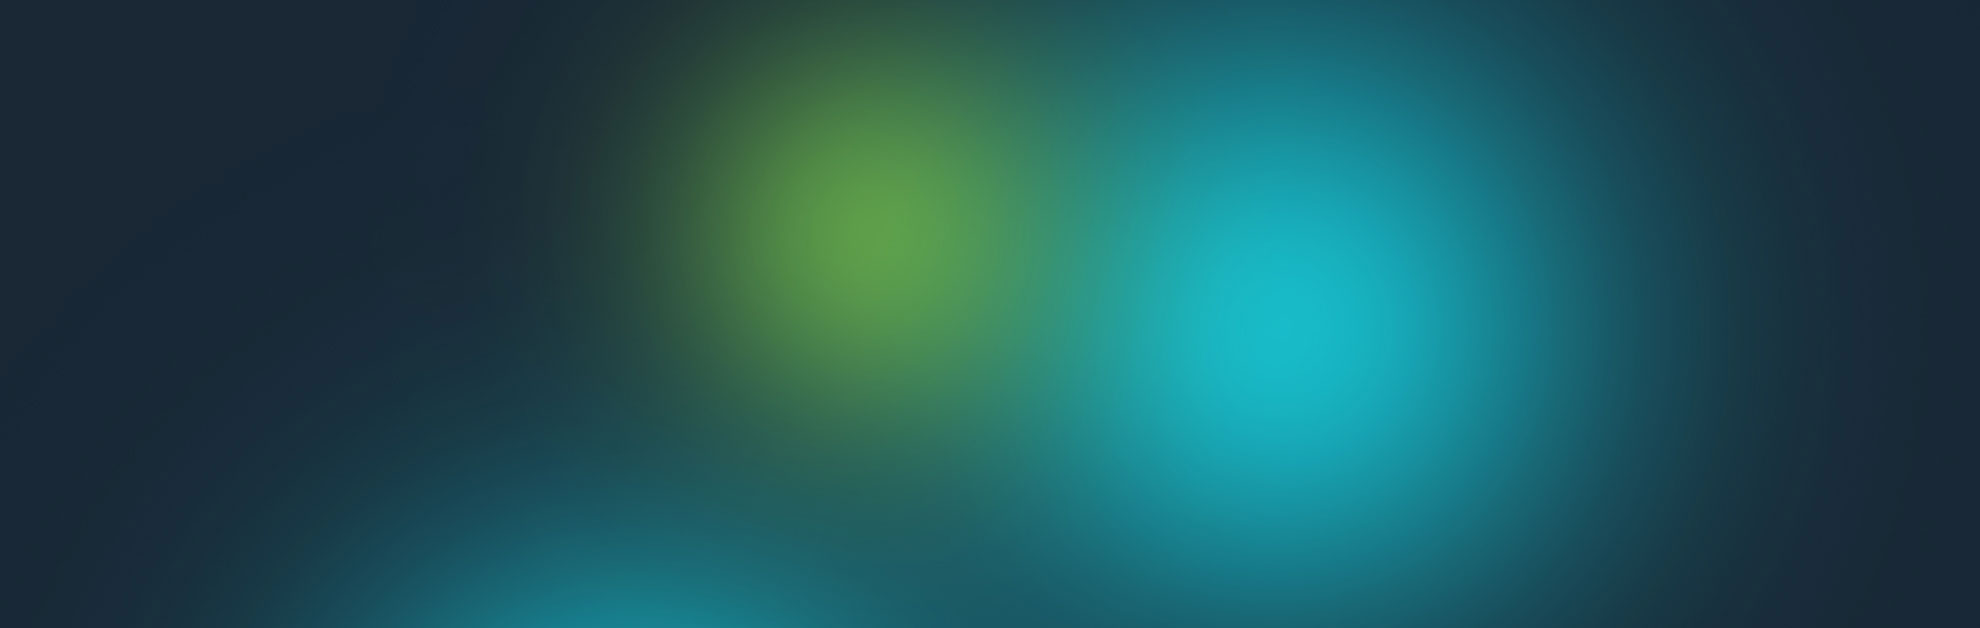
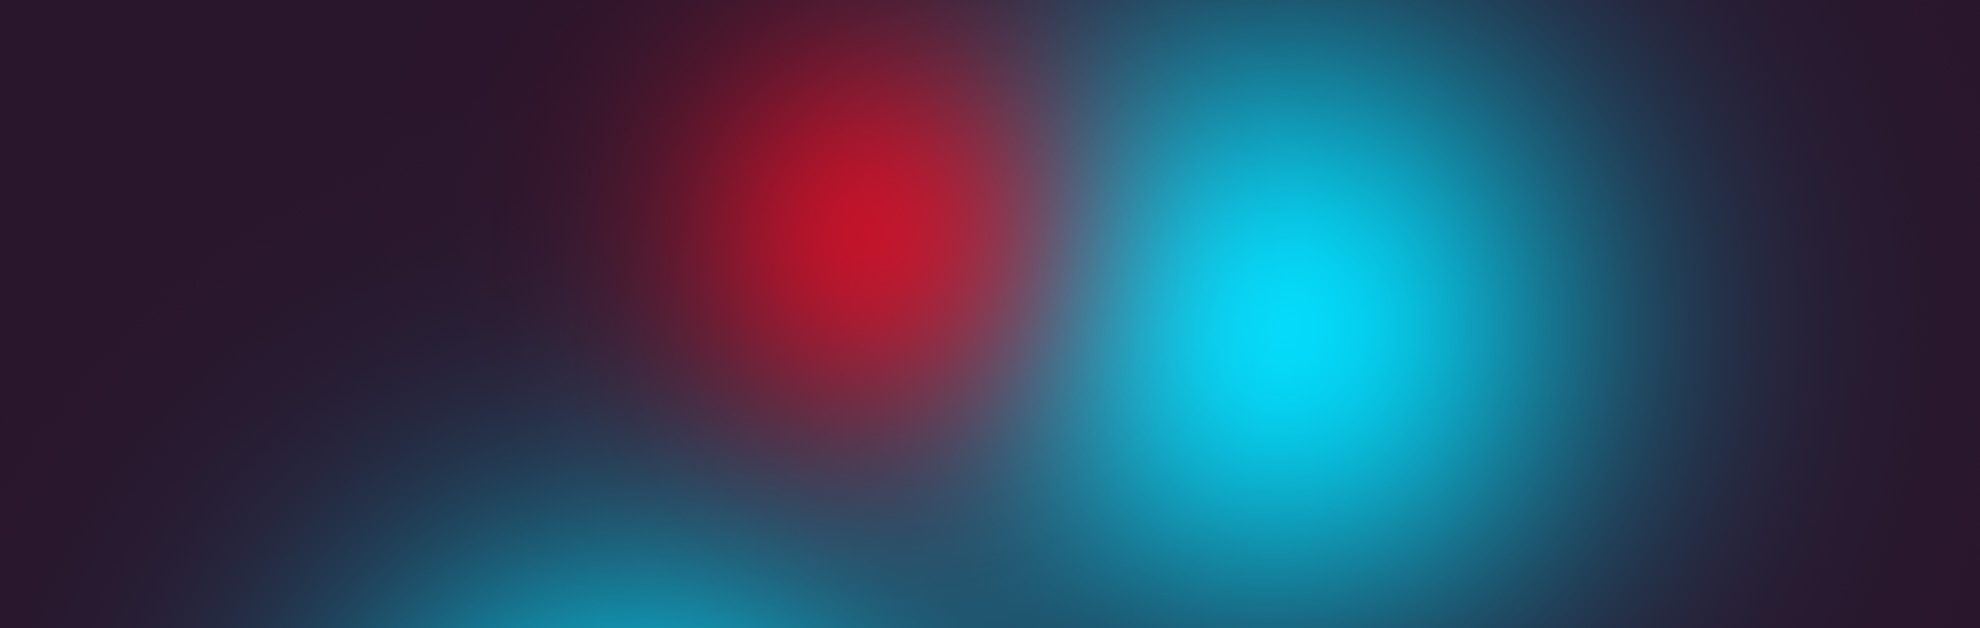
WIP: Skin change

diff --git a/app/assets/javascripts/user_functions.js b/app/assets/javascripts/user_functions.js
@@ -26,6 +26,14 @@ $(document).ready(function() {
     $(this).parent().parent().remove();
   });
 
+  $(".skin-change").click(function() {
+    console.log('Skin change clicked.');
+    var number = $(this).data("skin"),
+        bg = '/assets/bg/main-bg' + number + '.jpg';
+    $('header[role="banner"]').css('background','url(' + bg + ') top left no-repeat');
+    console.log('Changed bg');
+  });
+
   if (!$("#caixarandom").auderoFlashingText("isRunning")) {
     $("#caixarandom").auderoFlashingText({
       fadeOut: 1500,
